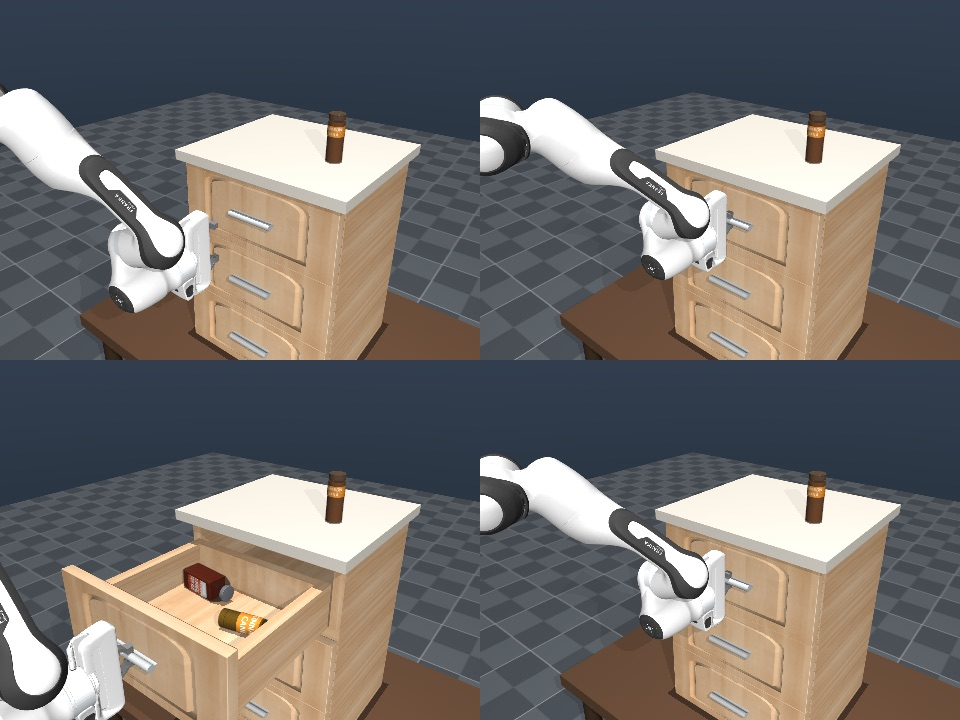
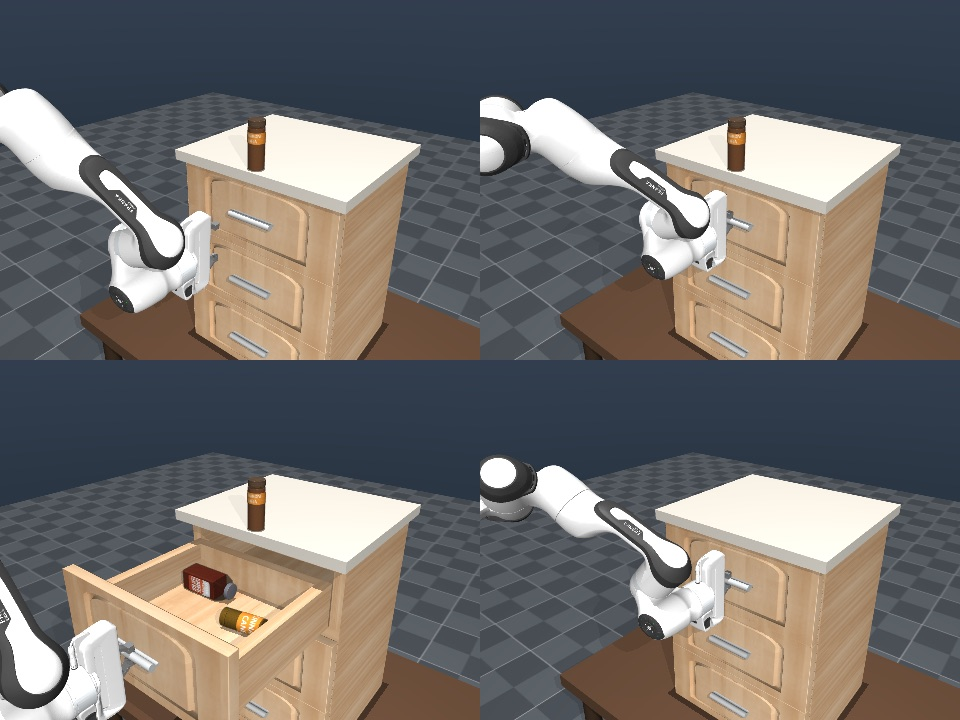
docs(simulation): document the seasoning errand
Records why the routine has the shape it does -- drawer open first, torso up
for the worktop and down for the drawer, around the drawer rather than
through it -- and what is and is not asserted about the jar. Refreshes the
still to match the moved jar.

Claude-Session: https://claude.ai/code/session_01NyqZRG1PnxTTtpuFjjRjmD

diff --git a/examples/advanced/robocasa_drawer_dash/README.md b/examples/advanced/robocasa_drawer_dash/README.md
@@ -1,17 +1,22 @@
-# Drawer dash: an arm that opens a drawer by holding onto it
+# Drawer dash: an arm that puts the seasoning away
 
 A MuJoCo scene built from RoboCasa parts — a three-drawer dresser standing on a
 table, with a seasoning bottle on its worktop and two more lying loose inside
 the top drawer — and a Panda on an Omron mobile base, the same robot RoboCasa's
-own kitchen tasks drive, which takes hold of the top drawer's handle and pulls
-it open.
+own kitchen tasks drive.
+
+The robot pulls the top drawer open by its handle, fetches the seasoning jar
+off the worktop, sets it down inside the drawer, and shoves the drawer shut
+again. Nothing is scripted at the joint level and nothing is attached: the
+drawer moves only while the fingers are on its handle, and the jar moves only
+while the fingers are around it.
 
 The bottles are scanned spice jars from the RoboCasa object library, with their
 own textures and convex collision meshes. Nothing holds the two in the drawer,
 so they roll: back against the rear wall as the drawer is pulled out, forward
 again as it is shoved shut.
 
-![four stages: lining up on the handle, gripping it, the drawer pulled out with two spice jars rolling inside, and pushed shut again](../../../docs-site/src/assets/media/drawer-dash/drawer-dash-stages.jpg)
+![four stages of the routine: lining up on the handle, gripping it, the drawer pulled open with the spice jars inside, and shut again with the worktop cleared](../../../docs-site/src/assets/media/drawer-dash/drawer-dash-stages.jpg)
 
 ## 1. Mock-safe contract
 
@@ -97,16 +102,38 @@ something takes hold of it. The routine is: square up to the bar, advance until
 the open fingers straddle it, close them, then drive the *hand* out along -y for
 41 cm. The drawer comes because the fingers are on it.
 
-That is also the check. `verify.py` asserts, first, that no actuator in the
-model acts on a slide joint; then that a finger pad is in contact with the
-handle for 100% of the pull and push. Take the grasp away and the drawer stays
-shut and the run fails.
+Then it goes and fetches the seasoning. That errand is why the routine has 24
+phases rather than nine, and three things about the scene force its shape:
+
+- **The drawer has to be open first.** Nothing can be put into a shut drawer,
+  so the jar is fetched between the pull and the push, while the drawer stands
+  open with nothing touching it. It stays put because its slides are damped.
+- **The torso moves.** The worktop is out of reach with the Omron torso down,
+  and the inside of the open drawer is out of reach with it up. So the arm
+  raises the torso to 20 cm to take the jar and drops it again to put the jar
+  away. That is the mobile base's lift being used for what it is for.
+- **The arm goes round the drawer, not through it.** The arm's rest pose sits
+  inside the swept volume of the open drawer, so folding home mid-routine
+  shoves the drawer half shut — which is untidy, and is the exact thing this
+  scene claims cannot happen by accident. The errand instead travels up and
+  across in front of the drawer. It has to pass through *something*, because
+  the two grasps want wrists a quarter turn apart: the handle is pinched top
+  to bottom, the jar is taken from above. Driven straight from one to the
+  other the arm arrives 60° off square and knocks the jar over instead of
+  closing on it.
+
+`verify.py` asserts all of it: that no actuator in the model acts on a slide
+joint; that a finger pad is in contact with the handle for 100% of the pull and
+push; that the fingers are on the jar for at least 90% of every phase that
+carries it; and that the jar is inside the drawer, standing up, at the moment
+it is let go. Take the grasp away and the drawer stays shut and the run fails.
 
 The handle is a cylinder lying along world x, standing about 8 mm proud of the
 drawer front, so the fingers have to close *vertically* across it. That needs
 orientation control, not just a reach: `arm_control.py` does one damped
 least-squares step per tick against the full 6-row site Jacobian — position and
-orientation together — integrated into position-actuator targets.
+orientation together — integrated into position-actuator targets. The jar wants
+the opposite pose, and the same solver gets it there.
 
 Three things had to be right before any of this worked:
 
@@ -118,13 +145,22 @@ Three things had to be right before any of this worked:
   side and the gripper never closes on anything.
 - The fingers have to stall against an 18 mm bar and still hold it, so their
   gain is 8000 with a 100 N force limit. At the default 120 the grip was worth
-  about a newton and the handle slid straight out.
+  about a newton and the handle slid straight out. The jar is commanded to a
+  gentler 18 mm rather than fully closed: shut against a 48 mm jar the fingers
+  would stall 24 mm inside the glass and drive the actuators to that limit.
+
+### What it does not do
+
+The jar is set down standing, and then the drawer is shoved shut and it topples
+over — the same way the two jars already lying in there roll around. Nothing
+holds any of them. The upright placement is checked at the moment of release,
+which is the part the robot is responsible for.
 
 ## Layout
 
 | File | What it holds |
 | --- | --- |
-| `plan.py` | the nine-phase choreography as plain data — no MuJoCo, no RoboCasa, so the mock lane and the tests share the simulator's schedule |
+| `plan.py` | the 24-phase choreography as plain data — no MuJoCo, no RoboCasa, so the mock lane and the tests share the simulator's schedule |
 | `app.py` | the Retriever Flows: a policy that walks the schedule, a simulator that runs it against MuJoCo or the mock, a printer |
 | `scene.py` | builds the scene and writes `scene.xml` |
 | `sequence.py` | executes a phase against a real model: phase to gripper pose |

diff --git a/examples/advanced/README.md b/examples/advanced/README.md
@@ -73,7 +73,7 @@ pixi run -e twist2 demo-twist2-rerun
 - `webcam_rerun/`: webcam or mock perception with Rerun visualization and record/replay helpers.
 - `twist2_simulation/`: MuJoCo/TWIST2 simulator integration with Rerun and optional native viewer.
 - `robosuite_lift/`: mock-safe robosuite Lift smoke path plus optional real robosuite mode.
-- `robocasa_drawer_dash/`: a Panda opens a drawer by grasping its handle; mock-safe lane plus optional MuJoCo/RoboCasa lanes and a browser viewer.
+- `robocasa_drawer_dash/`: a Panda opens a drawer, puts a seasoning jar away inside it, and shuts it; mock-safe lane plus optional MuJoCo/RoboCasa lanes and a browser viewer.
 - `mujoco_manipulation/`: MuJoCo manipulation with Rerun logging.
 - `hierarchical_physics_demo/`: Rerun plus HTML pipeline visualization for physics demos.
 - `../experimental/visualization/`: deterministic IR/HTML pipeline visualization utility.
@@ -89,7 +89,7 @@ pixi run -e twist2 demo-twist2-rerun
 - `core_composition/README.md`: registry-backed pipeline composition surfaces (`pixi run -e golden-retriever demo-composable-pipelines`).
 - `closed_loop_planning/README.md`: extracted belief, monitoring, and replanning patterns from the old prototype.
 - `robosuite_lift/README.md`: mock-safe robosuite smoke demo and optional real-mode setup.
-- `robocasa_drawer_dash/README.md`: drawer-dash routine, the passive-slide-joint claim, and the optional asset setup.
+- `robocasa_drawer_dash/README.md`: the put-the-seasoning-away routine, the passive-slide-joint claim, and the optional asset setup.
 - `robotics_typing_standard/README.md`: typed payload and data-spec demos.
 - `../../notebooks/README.md` (repo root): git-friendly notebook workflow for a small mechanics demo; keep the main runnable progression in the advanced example families above.
 
